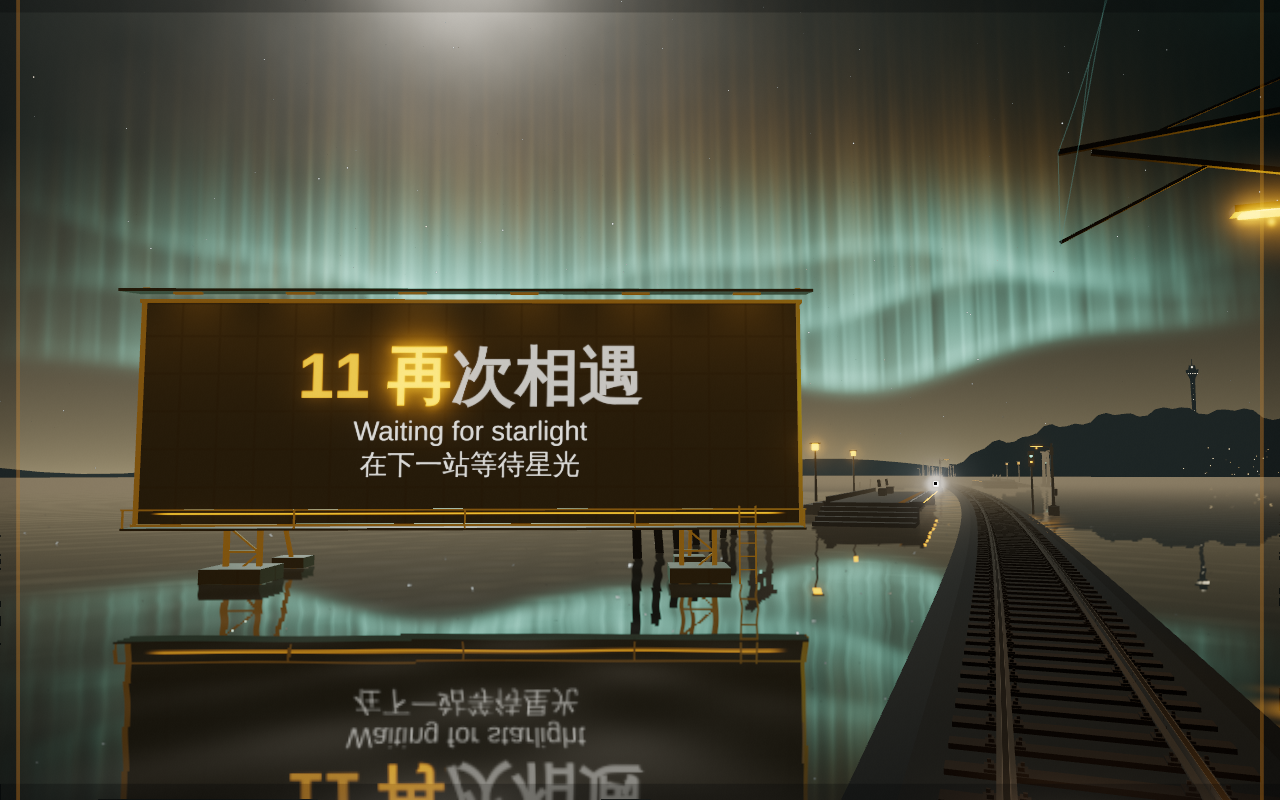
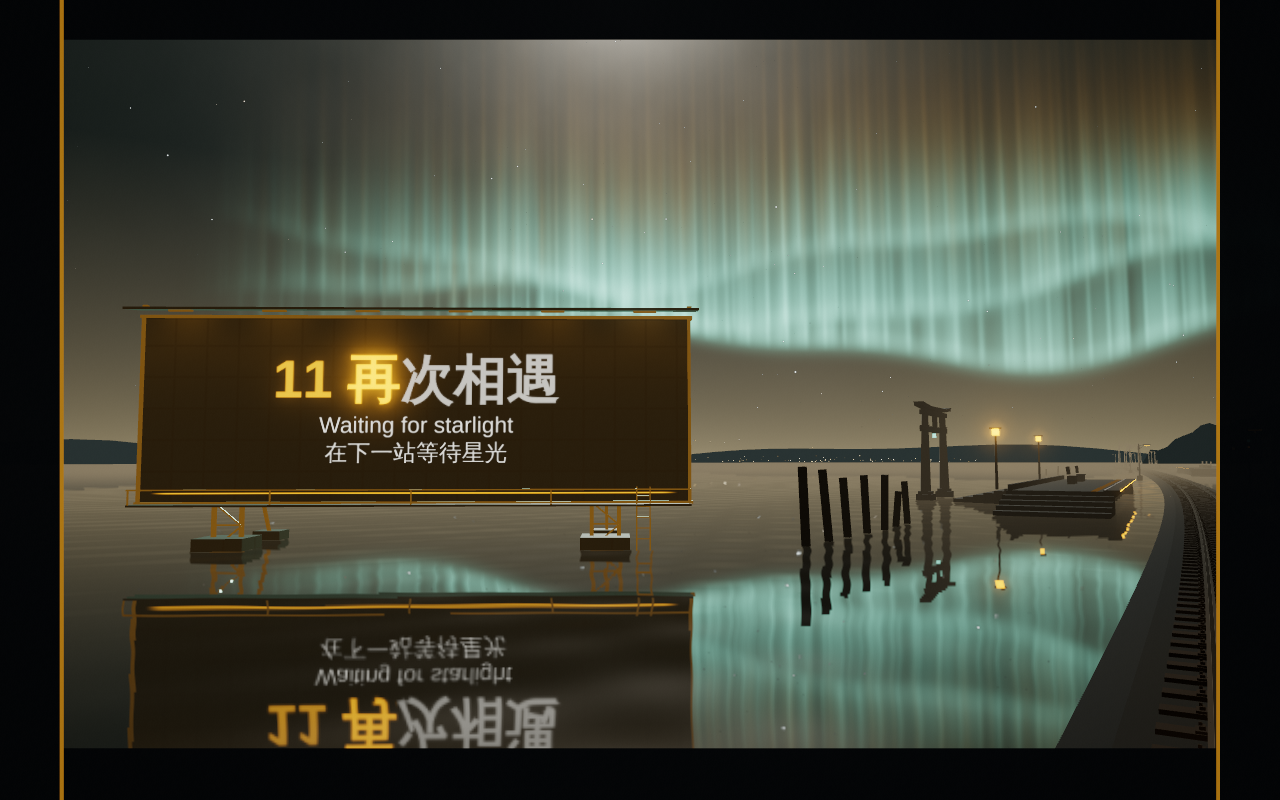
Diorama: used boards step aside and go dark when a sky line comes up
Moving the boards nearer the line left the last board of a verse filling
a third of the frame when the chorus began, right behind the sky line
(52% of that line's time, up to 38% of its area).

- The last board before a sky line stands further out (21 m instead of
  13 m), so it has left the frame by the time the sky line appears.
- Every board's hood lamps fade out while a sky line is up, so a board
  still in view is a dark shape instead of a lit panel behind the text.

Per-frame measurement on the test song at 1280x720: no sky line overlaps
a board any more.

Claude-Session: https://claude.ai/code/session_01TCfNdMooZuMg1BjskqSvv1

diff --git a/Musicmodules/music-stage/modes/diorama-camera.js b/Musicmodules/music-stage/modes/diorama-camera.js
@@ -43,6 +43,13 @@
             // The first encounter is to the right; successive encounters
             // alternate sides without ever creating a second screen per page.
             encounter.side = encounter.id % 2 === 0 ? 1 : -1;
+            // When the next line is written on the sky, this screen is the last
+            // of its run and nothing is read after it: it stands well back from
+            // the line, so it is out of the picture when the camera looks ahead.
+            const phrases = timeline.phrases || [];
+            const next = phrases[upperBound(phrases, encounter.end - 0.001, 'start')];
+            const skyNext = Boolean(next) && !plan.pageEncounter.has(next.id);
+            if (skyNext && next.start - encounter.end < 10) encounter.lateral = 21;
             encounter.position = {
                 x: frame.position.x + frame.right.x * encounter.lateral * encounter.side,
                 y: 4.6,
@@ -57,9 +64,7 @@
             encounter.height = 4.2;
             // When the next line is written on the sky, the camera has to let go
             // of this screen by then, or the screen stands in front of that line.
-            const phrases = timeline.phrases || [];
-            const next = phrases[upperBound(phrases, encounter.end - 0.001, 'start')];
-            encounter.skyStart = next && !plan.pageEncounter.has(next.id) ? next.start : Infinity;
+            encounter.skyStart = skyNext ? next.start : Infinity;
         });
         // Compile continuous yaw cues, including interrupted transitions.
         const cues = timeline.acts.slice(1).map(act => ({ time: act.start, rig: rigFor(act) }));

diff --git a/Musicmodules/music-stage/modes/diorama-lyrics.js b/Musicmodules/music-stage/modes/diorama-lyrics.js
@@ -539,7 +539,18 @@
                 lastCamera = camera; lastDiagnosticTime = time;
                 const distance = timeline.distanceAt(time, options.cameraSpeed ?? 1);
                 // Hood lamps are a night thing, and they dim while a line is up.
-                const standby = palette.light ? 0 : 0.24;
+                // A line written on the sky is drawn over whatever stands behind
+                // it, and a lit board there would eat its contrast: while one is
+                // up, and a little either side of it, every board goes dark.
+                let sky = 0;
+                const around = Math.max(0, D.upperBound(timeline.phrases, time, 'start') - 1);
+                for (let i = Math.max(0, around - 2); i <= Math.min(timeline.phrases.length - 1, around + 3); i++) {
+                    const phrase = timeline.phrases[i];
+                    if (track.pageEncounter?.has(phrase.id)) continue;
+                    sky = Math.max(sky, D.smooth((time - phrase.start + 1.6) / 1.2)
+                        * (1 - D.smooth((time - phrase.end - 1) / 2)));
+                }
+                const standby = (palette.light ? 0 : 0.24) * (1 - sky);
                 signs.forEach(sign => {
                     sign.performance.uniforms.light.value = 0;
                     sign.performance.uniforms.closing.value = 0;
